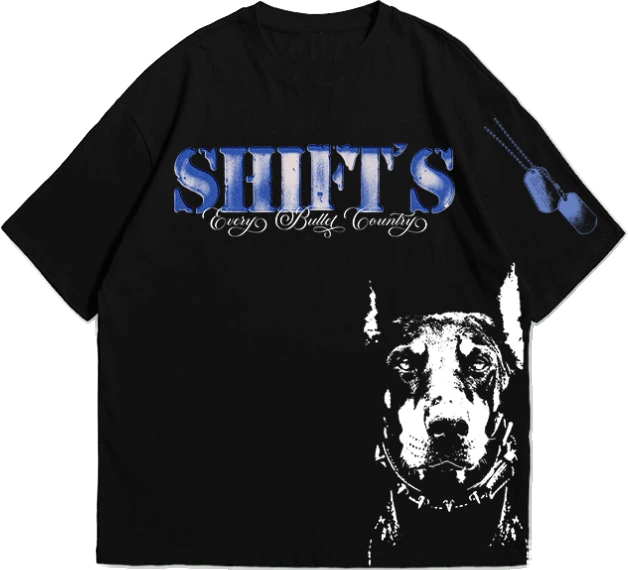
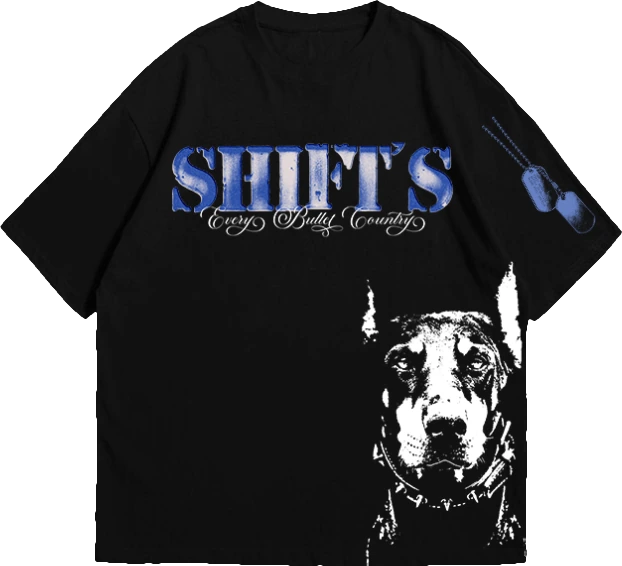
Drop 02: limpiar bordes de la Clyde negra/azul (frente)
Claude-Session: https://claude.ai/code/session_01HR5be7Ysydzdw8opxHYnB9

diff --git a/js/data/products.js b/js/data/products.js
@@ -220,7 +220,7 @@ export const PRODUCTS = [
 
 // Versión de las fotos: cámbiala cuando reemplaces una foto con el mismo nombre,
 // así el navegador no sigue mostrando la vieja guardada en caché.
-const FOTOS_VERSION = '2026-11-12d';
+const FOTOS_VERSION = '2026-11-12e';
 PRODUCTS.forEach((p) => p.gallery?.forEach((set) => set.forEach((g) => { g.src += `?v=${FOTOS_VERSION}`; })));
 
 /** Productos visibles en la tienda principal (sin los de drops bloqueados). */
